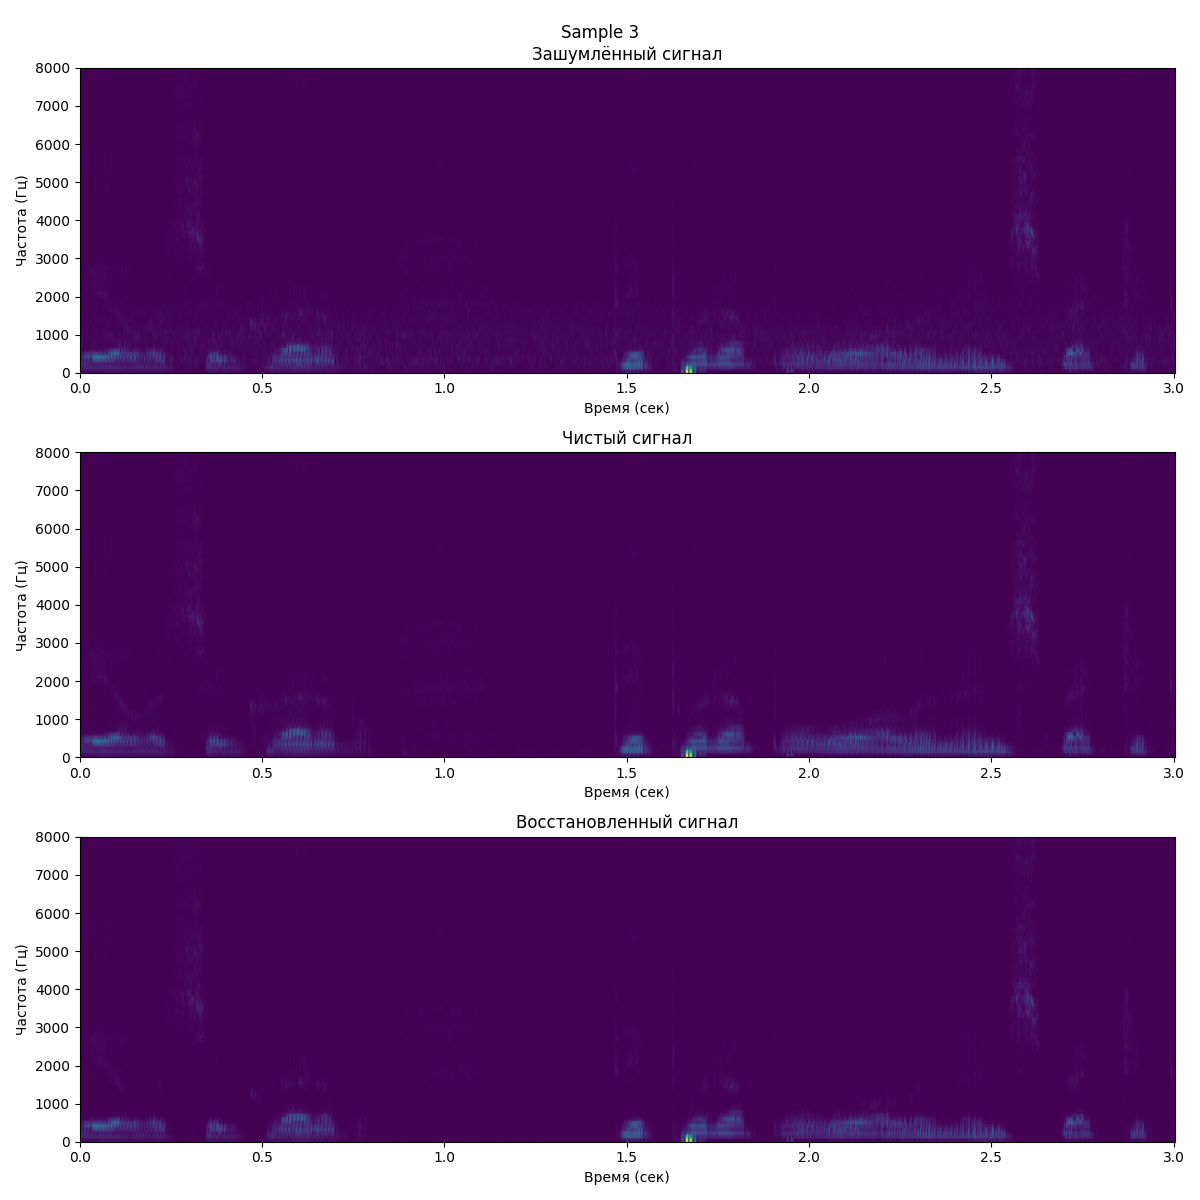
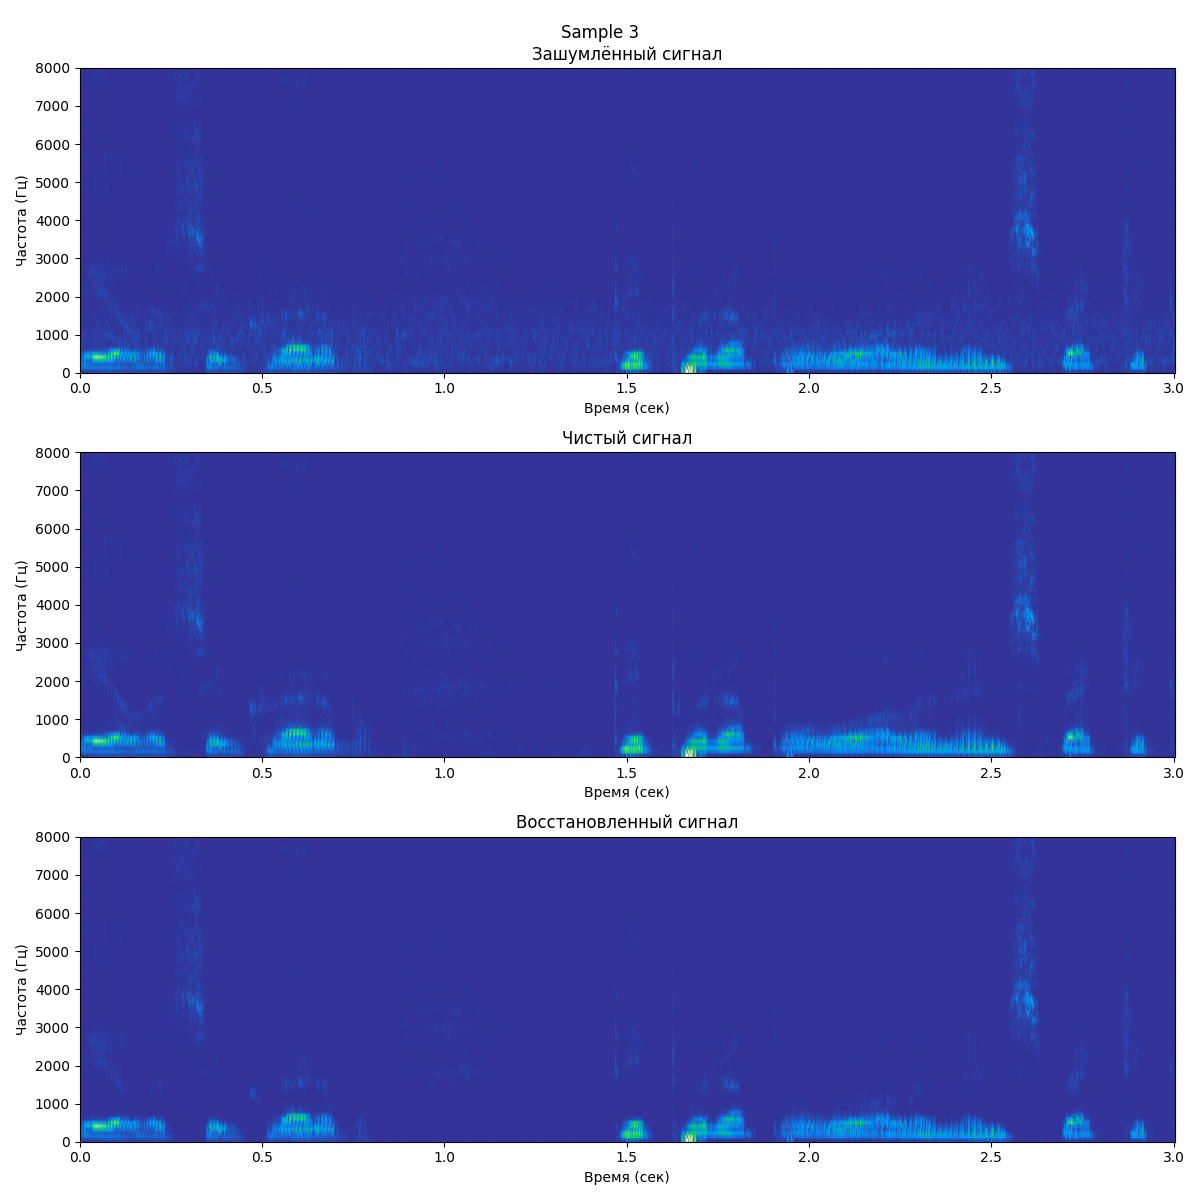
add terrain images

diff --git a/noisecanceletionmodel/test_noise_suppressor.py b/noisecanceletionmodel/test_noise_suppressor.py
@@ -206,9 +206,9 @@ def test():
                     [noisy_mag_plot, clean_mag, pred_mag_plot],
                     ["Зашумлённый сигнал", "Чистый сигнал", "Восстановленный сигнал"]
             ):
-                im = ax.imshow(
+                ax.imshow(
                     data.numpy(), origin="lower", aspect="auto",
-                    vmin=vmin, vmax=vmax,
+                    vmin=vmin, vmax=vmax, cmap='terrain',
                     extent=[0, duration, 0, SAMPLE_RATE // 2]
                 )
                 ax.set_title(title)
